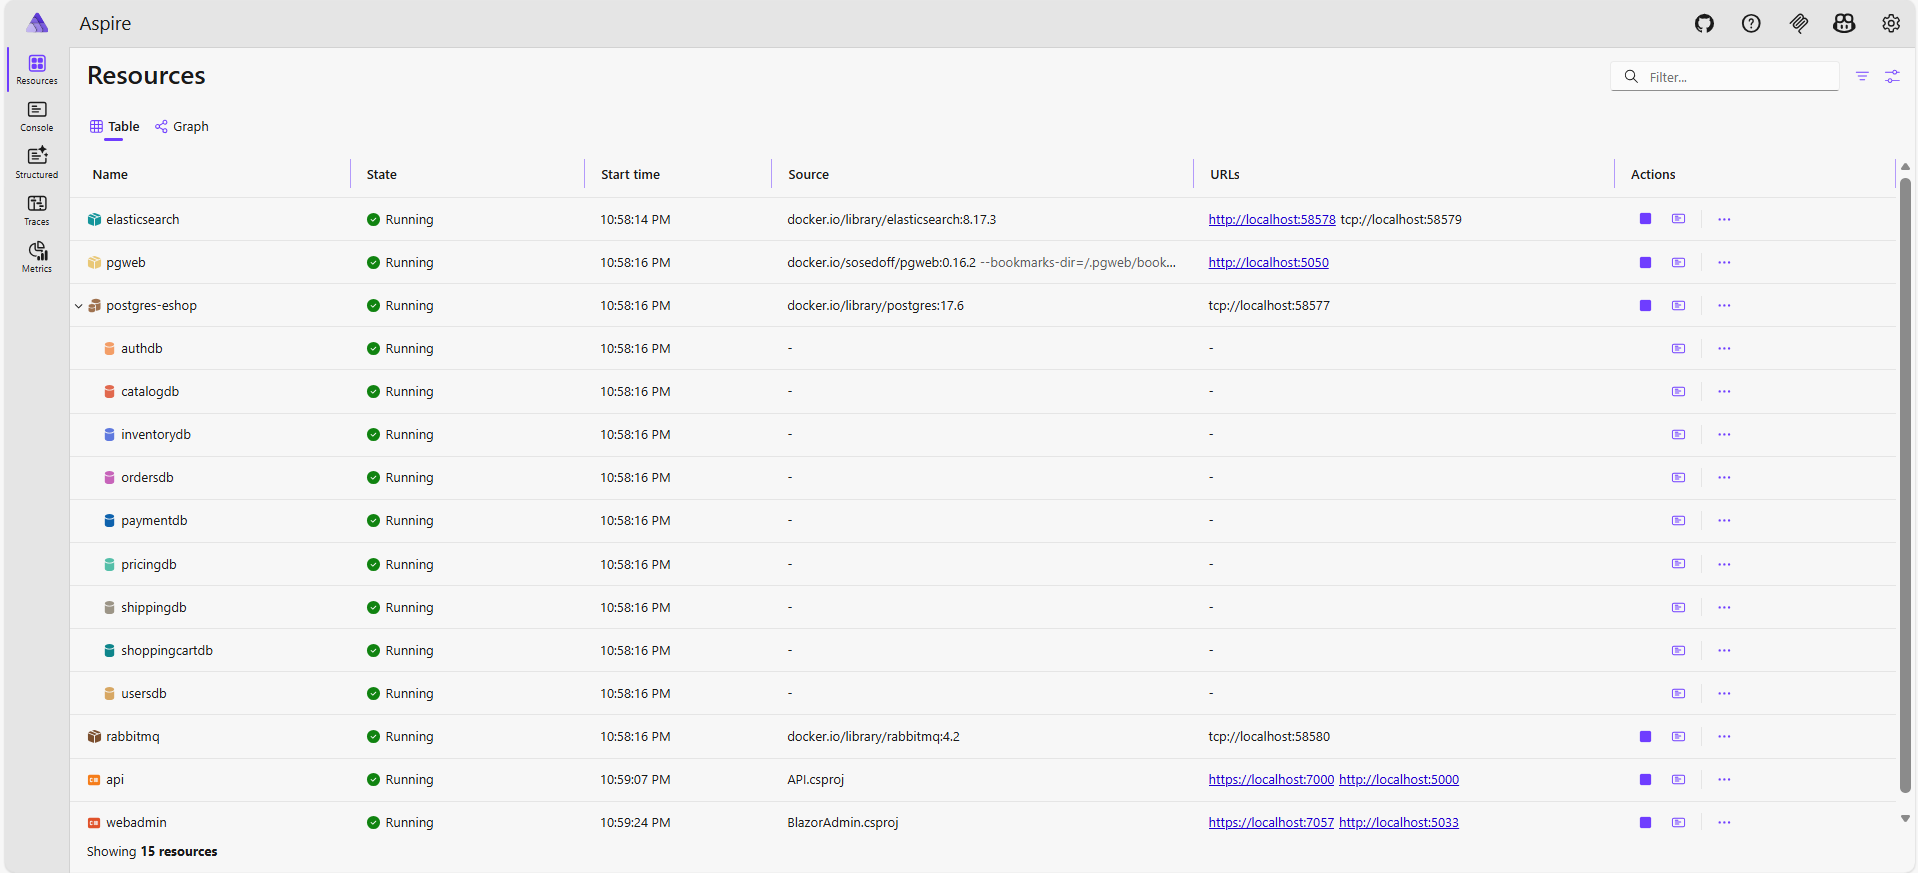
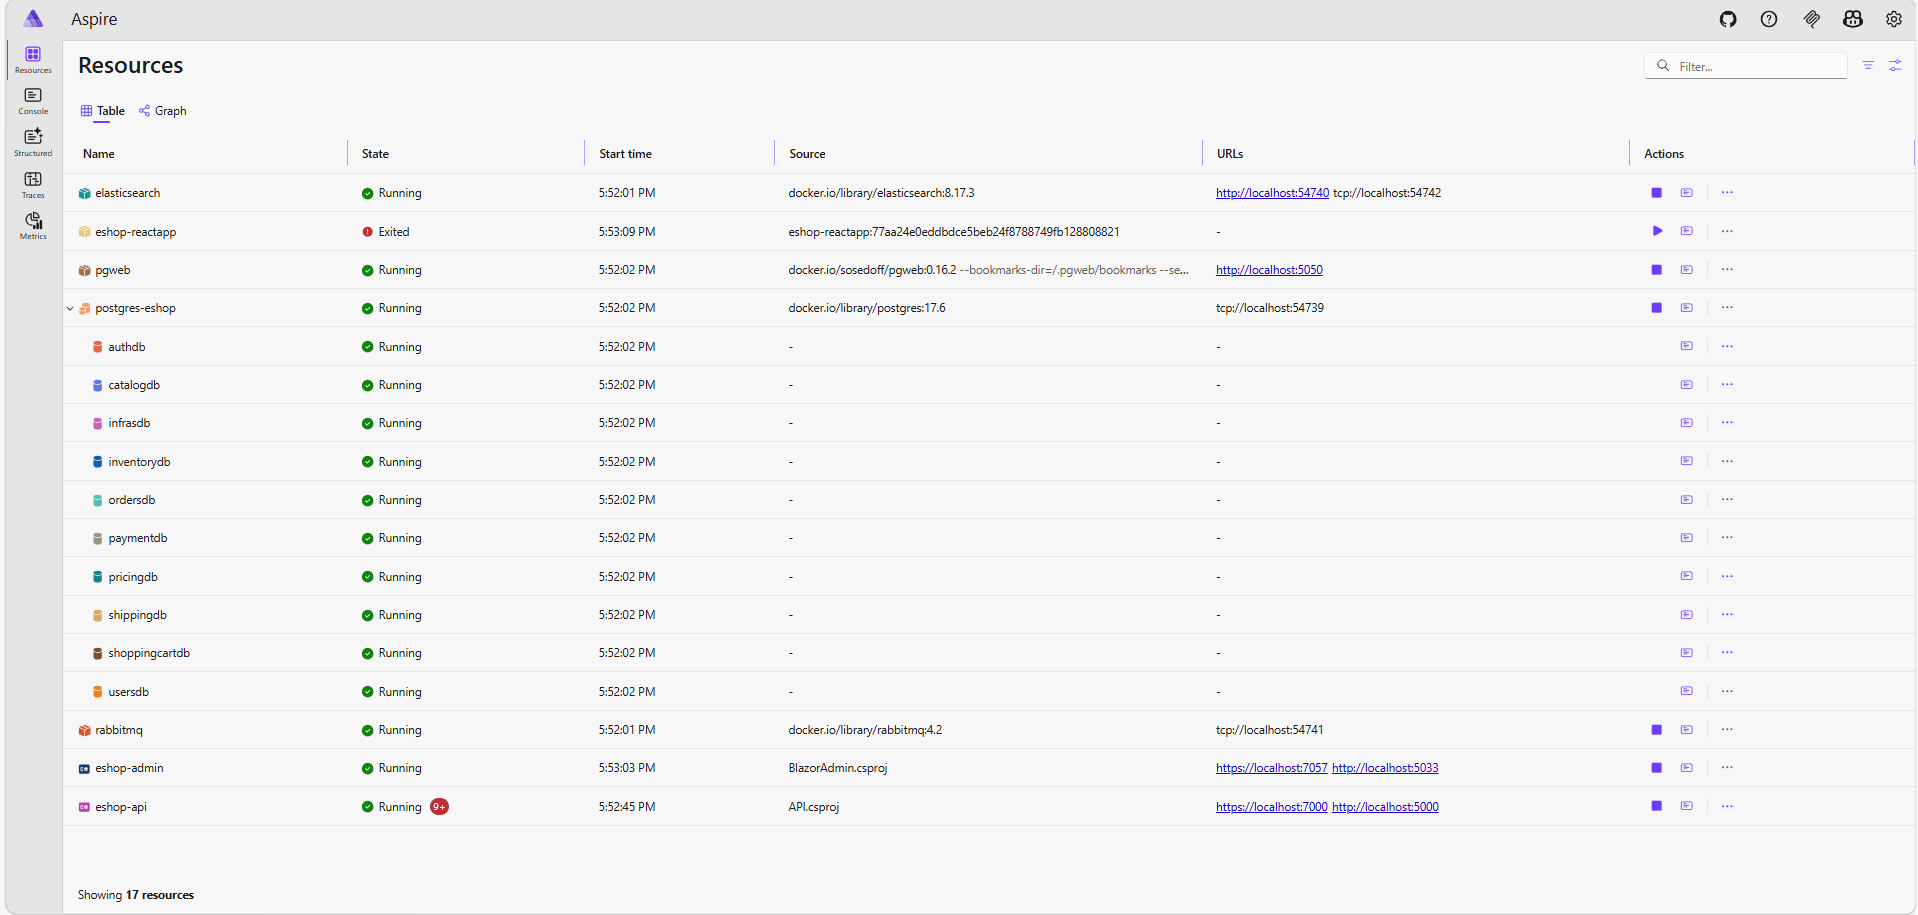
Update Readme

diff --git a/README.md b/README.md
@@ -171,12 +171,23 @@ Open the **EShop_ModularMonolith.slnx** file
 
 Create `appsettings.Development.json` file in the `src/API/` directory, override the ApiKey and secrets
 
-### 4. Run Application
+### 4. Run Application (Backend)
 
 - Ensure Docker Desktop is running
 - Select Aspire.AppHost as the startup project and Run
 
-### 5. Access Aspire Dashboard
+### 5. Run Frontend React
+
+```bash
+cd src/Apps/react-app
+npm install
+npm run dev
+```
+
+### 6. Access Dashboards
+- **Aspire Dashboard**: [http://localhost:17170](http://localhost:17170)
+- **Backend API**: [http://localhost:5000/swagger](http://localhost:5000/swagger)
+- **Frontend React**: [http://localhost:5173](http://localhost:5173)
 
 ## Demo
 
@@ -186,22 +197,35 @@ Create `appsettings.Development.json` file in the `src/API/` directory, override
 ## Sample Images
 
 ### Aspire Dashboard
-![Aspire Dashboard](assets/aspire-dashboard.png)
-![Aspire Dashboard Table](assets/aspire-dashboard-table.png)
+| Overview | Resource Table |
+| :---: | :---: |
+| ![Aspire Dashboard](assets/aspire-dashboard.png) | ![Aspire Dashboard Table](assets/aspire-dashboard-table.png) |
+
+### Frontend React
+| Home Page | Product Listing |
+| :---: | :---: |
+| <img src="assets/frontend/home.png" width="400" /> | <img src="assets/frontend/products.png" width="400" /> |
+
+| Product Details | Shopping Cart |
+| :---: | :---: |
+| <img src="assets/frontend/product-details.png" width="400" /> | <img src="assets/frontend/cart.png" width="400" /> |
+
+| Checkout Order | Order Details | Order History |
+| :---: | :---: | :---: |
+| <img src="assets/frontend/order.png" /> | <img src="assets/frontend/order_details.png" /> | <img src="assets/frontend/history.png" /> |
 
 ### Blazor Admin Panel
-
-| Product table | Create Product (draft) |
+| Product Table | Create Product (draft) |
 | :---: | :---: |
-| <img src="assets/catalog/catalog-product-table.png" /> | <img src="assets/catalog/catalog-product-create-draft.png" /> |
+| <img src="assets/backend/catalog-product-table.png" /> | <img src="assets/backend/catalog-product-create-draft.png" /> |
 
-| Product details | Product details (scroll down) |
-| :---: | :---: |
-| <img src="assets/catalog/catalog-product-details.png" /> | <img src="assets/catalog/catalog-product-details-2.png" /> |
+| Category tree | Attribute Table | Product Details |
+| :---: | :---: | :---: |
+| <img src="assets/backend/catalog-category-table.png" /> | <img src="assets/backend/catalog-attribute-table.png" /> | <img src="assets/backend/catalog-product-details.png" /> |
 
-| Category tree | Attribute Table |
-| :---: | :---: |
-| <img src="assets/catalog/catalog-category-table.png" /> | <img src="assets/catalog/catalog-attribute-table.png" /> |
+| Inventory Item table | Warehouse table | Inventory Adjustment modal | Inventory History |
+| :---: | :---: | :---: | :---: |
+| <img src="assets/backend/inventory-items.png" /> | <img src="assets/backend/inventory-warehouses.png" /> | <img src="assets/backend/inventory-adjustment.png" /> | <img src="assets/backend/inventory-history.png" /> |
 
 
 ---
